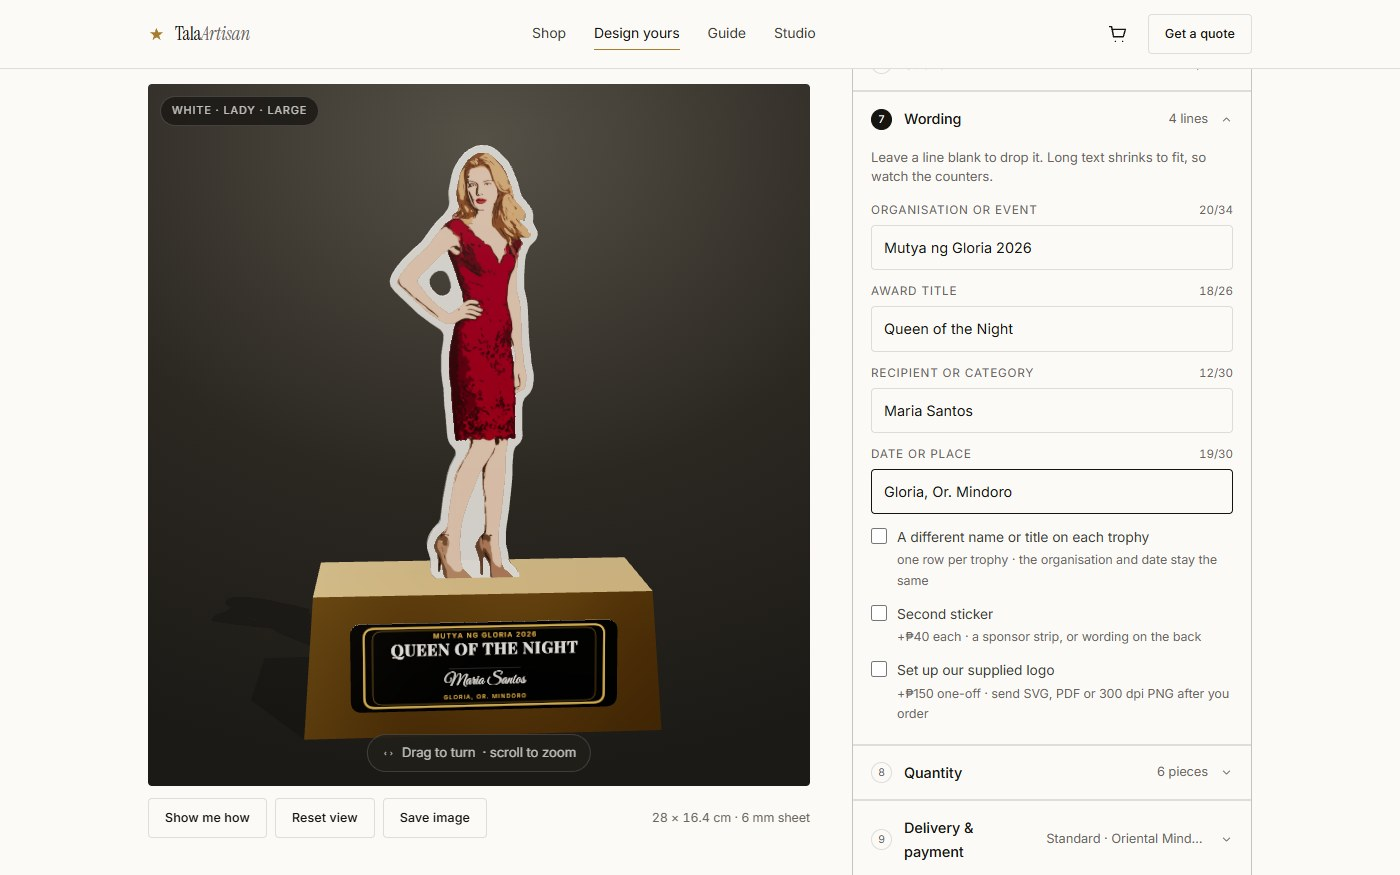
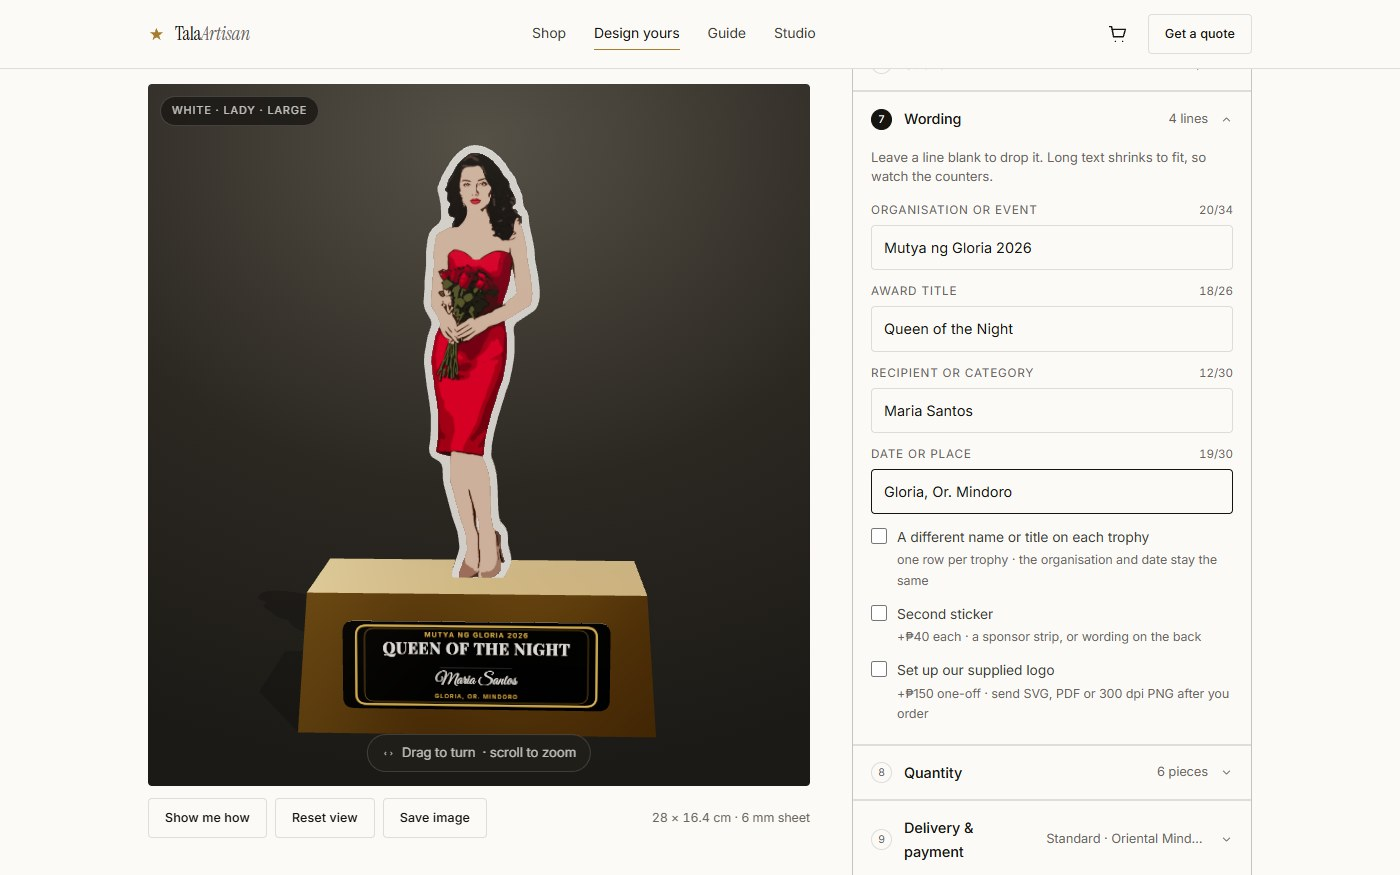
The Lady is a pageant contestant holding red roses
The owner asked for a pageant look with a bouquet: a dark-haired European
contestant in a red strapless dress, roses held at her waist, feet together,
facing the front. Her face was redrawn so both eyes match (the owner saw
them as crooked), and the roses keep their colour when a customer picks
another dress colour. The Guide's wording picture shows her.

Changed region(s): [[0.2457, 0.1543, 0.3993, 0.6789], [0.215, 0.648, 0.4914, 0.864], [0.3993, 0.6171, 0.4607, 0.6789]]

diff --git a/assets/js/trophy.js b/assets/js/trophy.js
@@ -794,26 +794,22 @@ const GENT_TRACE = `M102.3 299.9 L83.1 299.9 L81.6 298.2 L77.1 295.4 L74.0 292.9
   L87.1 185.4 L87.1 198.1 L90.8 222.4 L92.0 243.7 L93.0 253.4 L93.1 259.5 L92.8 264.6 L92.4 267.4
   L91.1 273.4 L91.1 275.7 L91.4 277.1 L92.8 279.4 L98.1 285.9 L101.7 291.3 L102.4 294.5 Z`;
 
-const LADY_TRACE = `M88.0 299.9 L35.4 299.9 L35.2 299.8 L34.0 297.1 L32.7 295.1 L28.2 290.8 L27.5 289.6 L26.9 286.7
-  L26.9 279.5 L24.7 272.2 L24.6 269.8 L24.9 268.1 L25.7 265.4 L26.9 263.0 L28.9 260.2 L32.6 256.0
-  L33.9 253.2 L35.8 237.8 L38.7 222.4 L40.5 216.7 L44.2 209.1 L44.7 207.1 L44.6 204.8 L43.9 203.0
-  L40.8 199.4 L39.8 197.5 L39.1 195.1 L38.7 191.7 L37.7 178.7 L37.0 173.3 L36.5 161.9 L35.6 156.4
-  L35.0 150.0 L35.1 138.8 L36.7 128.4 L36.7 125.4 L35.8 123.0 L34.2 121.1 L27.0 116.3 L19.4 110.6
-  L4.2 96.0 L1.7 93.0 L1.1 91.7 L0.7 89.5 L1.1 87.1 L2.6 83.8 L4.4 80.9 L6.5 78.2
-  L9.1 75.2 L15.0 69.3 L21.8 63.2 L23.4 61.3 L28.5 54.3 L32.7 49.2 L36.7 45.6 L39.6 41.5
-  L40.5 39.8 L40.8 38.3 L41.0 36.7 L40.5 31.8 L40.6 28.6 L42.6 18.8 L43.9 14.8 L45.5 11.8
-  L47.7 8.4 L50.6 5.0 L54.2 2.3 L57.6 0.6 L61.2 -0.1 L65.8 0.1 L67.6 0.6 L69.6 1.5
-  L73.3 4.2 L79.4 10.5 L81.6 14.2 L83.0 17.3 L85.8 24.4 L87.3 30.0 L88.5 33.0 L93.9 39.6
-  L95.5 42.3 L96.1 45.1 L95.9 49.5 L96.2 50.8 L98.5 54.9 L99.2 56.9 L99.1 58.3 L98.4 60.6
-  L97.4 62.2 L94.3 65.1 L93.4 66.5 L91.3 71.5 L90.7 75.3 L90.1 85.7 L90.1 91.7 L90.3 94.3
-  L92.1 102.0 L92.7 106.5 L93.5 124.8 L94.1 133.1 L95.0 138.8 L95.3 143.7 L97.1 152.4 L97.1 155.5
-  L96.4 160.3 L95.6 162.7 L94.5 164.6 L91.4 167.6 L90.7 168.6 L89.9 170.6 L89.6 171.9 L89.3 174.6
-  L89.3 190.4 L89.6 193.7 L89.2 196.4 L88.0 198.7 L85.2 201.3 L84.5 202.3 L83.6 204.7 L83.3 206.0
-  L82.7 213.8 L82.7 220.9 L82.3 226.8 L80.4 246.0 L78.7 257.2 L78.2 262.3 L78.3 269.8 L79.8 276.1
-  L80.5 281.6 L82.0 284.6 L86.1 288.8 L87.5 291.1 L88.1 294.3 Z
-  M36.2 99.2 L38.7 98.4 L40.0 97.4 L40.9 96.2 L41.8 93.6 L41.7 90.8 L40.2 86.0 L38.7 83.6
-  L37.4 82.5 L35.6 81.8 L32.7 81.8 L30.2 82.9 L27.7 85.4 L26.4 87.9 L26.4 90.9 L26.9 92.4
-  L28.1 94.5 L30.9 97.5 L32.2 98.4 L34.0 99.1 Z`;
+const LADY_TRACE = `M59.3 299.9 L42.2 299.9 L40.8 299.1 L39.2 298.6 L35.2 298.4 L33.8 298.0 L31.6 296.6 L30.3 294.4
+  L29.9 292.6 L30.2 288.5 L34.0 277.5 L35.1 273.0 L35.1 270.4 L34.3 263.5 L33.6 260.1 L30.2 250.1
+  L24.6 228.4 L23.9 223.9 L23.8 217.3 L23.2 214.5 L22.4 212.8 L21.2 211.5 L16.9 208.9 L15.9 207.9
+  L15.1 206.5 L14.7 205.2 L14.5 202.8 L15.4 196.5 L15.8 189.8 L15.8 179.5 L14.9 171.2 L13.2 160.2
+  L11.4 144.4 L11.6 139.2 L13.8 126.7 L16.5 118.7 L16.5 116.6 L16.0 114.8 L12.5 108.6 L11.7 105.9
+  L11.3 103.2 L12.0 94.4 L12.2 87.8 L13.2 78.7 L13.2 69.3 L14.3 61.1 L15.2 57.9 L17.1 54.8
+  L22.0 50.5 L22.9 49.0 L23.4 47.2 L23.3 39.2 L22.2 33.1 L21.1 29.0 L21.2 26.9 L23.7 20.7
+  L24.9 18.3 L29.5 10.7 L32.1 7.3 L34.8 4.6 L39.0 1.7 L42.0 0.4 L45.4 -0.1 L48.4 0.2
+  L52.5 1.3 L55.8 2.9 L59.0 5.1 L62.5 8.5 L65.0 11.3 L68.5 16.6 L71.2 19.9 L72.3 21.9
+  L73.5 25.7 L75.5 29.7 L76.6 32.6 L77.3 38.2 L77.8 39.9 L80.1 43.6 L80.9 45.9 L81.5 52.2
+  L84.2 63.9 L85.0 69.1 L85.3 74.4 L87.6 86.1 L88.6 94.5 L88.6 99.4 L88.2 102.2 L87.5 105.0
+  L86.4 107.2 L84.3 109.2 L73.6 116.2 L72.0 118.1 L71.3 119.9 L71.2 122.5 L71.8 127.4 L71.8 137.0
+  L71.4 141.6 L70.5 147.2 L68.5 156.8 L66.1 163.6 L60.8 181.0 L58.1 191.8 L56.6 200.0 L56.1 207.8
+  L56.5 210.1 L58.6 216.1 L59.8 221.6 L60.5 229.6 L61.0 245.9 L61.7 252.1 L62.8 255.3 L66.3 259.8
+  L67.4 262.3 L67.8 264.8 L67.8 270.4 L69.8 278.2 L70.2 280.5 L70.2 281.7 L69.7 283.8 L66.4 291.2
+  L64.8 293.2 L60.9 296.9 Z`;
 
 const SUIT_TRACE = `M95.8 299.9 L26.5 299.9 L22.3 295.3 L21.4 293.6 L21.0 292.1 L20.9 289.9 L21.4 286.8 L23.5 282.1
   L26.7 276.6 L27.2 274.8 L27.2 272.1 L26.4 267.0 L25.4 257.1 L24.9 248.1 L23.0 237.7 L22.1 231.5
@@ -1143,7 +1139,7 @@ const RUN_W_READY_ART = {"src": "img/figures/run-w-ready.ee09680b.webp", "box": 
 
 const GENT_ART = {"src": "img/figures/gent.418f1c14.webp", "box": [-3.7, -1.11, 103.85, 300.96], "clear": true, "wear": "img/figures/gent-wear.64c5a09d.png", "hi": "img/figures/gent-hi.85ed147f.webp"};
 
-const LADY_ART = {"src": "img/figures/lady.d457d768.webp", "box": [-0.38, -0.18, 100.23, 298.96], "clear": true, "wear": "img/figures/lady-wear.7b1363c9.png", "hi": "img/figures/lady-hi.b6266568.webp"};
+const LADY_ART = {"src": "img/figures/lady.65ef85f2.webp", "box": [10.05, -1.28, 90.06, 301.22], "clear": true, "wear": "img/figures/lady-wear.a9acaaac.png", "hi": "img/figures/lady-hi.c695947e.webp"};
 
 const SUIT_ART = {"src": "img/figures/suit.6453ec54.webp", "box": [2.11, -1.15, 98.0, 301.16], "clear": true, "wear": "img/figures/suit-wear.bc8d0319.png", "hi": "img/figures/suit-hi.aebaa446.webp"};
 

diff --git a/cart.html b/cart.html
@@ -12,8 +12,8 @@
 <link rel="preconnect" href="https://fonts.gstatic.com" crossorigin>
 <link rel="preload" as="style" href="https://fonts.googleapis.com/css2?family=Instrument+Serif:ital@0;1&family=Inter:wght@400;500;600&family=Oswald:wght@400;600&family=Playfair+Display:ital,wght@0,700;1,700&family=Great+Vibes&display=swap" onload="this.onload=null;this.rel='stylesheet'">
 <noscript><link rel="stylesheet" href="https://fonts.googleapis.com/css2?family=Instrument+Serif:ital@0;1&family=Inter:wght@400;500;600&family=Oswald:wght@400;600&family=Playfair+Display:ital,wght@0,700;1,700&family=Great+Vibes&display=swap"></noscript>
-<link rel="stylesheet" href="assets/css/styles.css?v=202611082218">
-<link rel="stylesheet" href="assets/css/cart.css?v=202611082218">
+<link rel="stylesheet" href="assets/css/styles.css?v=202611091333">
+<link rel="stylesheet" href="assets/css/cart.css?v=202611091333">
 
 <script type="importmap">
 { "imports": { "three": "https://cdn.jsdelivr.net/npm/three@0.160.0/build/three.module.js" } }
@@ -107,8 +107,8 @@
 
 <a class="msg" href="https://m.me/61595841638997" target="_blank" rel="noopener"><svg viewBox="0 0 24 24" aria-hidden="true"><path d="M12 4c4.4 0 8 3.2 8 7.3s-3.6 7.2-8 7.2c-1 0-2-.2-2.9-.5L5 19.6l1.2-3.5C4.8 14.8 4 13.1 4 11.3 4 7.2 7.6 4 12 4Z"/><path d="m8.3 13 2.6-2.7 2.1 1.6 2.6-2.8"/></svg><span>Message us<span class="msg__more"> on Facebook</span></span></a>
 
-<script src="assets/js/config.js?v=202611082218"></script>
-<script src="assets/js/main.js?v=202611082218" defer></script>
-<script type="module" src="assets/js/cart.js?v=202611082218"></script>
+<script src="assets/js/config.js?v=202611091333"></script>
+<script src="assets/js/main.js?v=202611091333" defer></script>
+<script type="module" src="assets/js/cart.js?v=202611091333"></script>
 </body>
 </html>

diff --git a/index.html b/index.html
@@ -17,7 +17,7 @@
 <link rel="preconnect" href="https://fonts.gstatic.com" crossorigin>
 <link rel="preload" as="style" href="https://fonts.googleapis.com/css2?family=Instrument+Serif:ital@0;1&family=Inter:wght@400;500;600&family=Oswald:wght@400;600&family=Playfair+Display:ital,wght@0,700;1,700&family=Great+Vibes&display=swap" onload="this.onload=null;this.rel='stylesheet'">
 <noscript><link rel="stylesheet" href="https://fonts.googleapis.com/css2?family=Instrument+Serif:ital@0;1&family=Inter:wght@400;500;600&family=Oswald:wght@400;600&family=Playfair+Display:ital,wght@0,700;1,700&family=Great+Vibes&display=swap"></noscript>
-<link rel="stylesheet" href="assets/css/styles.css?v=202611082218">
+<link rel="stylesheet" href="assets/css/styles.css?v=202611091333">
 
 <!-- JS on: the flat drawings in the 3D boxes stay hidden until the real
      picture is in (owner, 5 Nov: "i dont want to show these when it refresh").
@@ -369,8 +369,8 @@
 
 <a class="msg" href="https://m.me/61595841638997" target="_blank" rel="noopener"><svg viewBox="0 0 24 24" aria-hidden="true"><path d="M12 4c4.4 0 8 3.2 8 7.3s-3.6 7.2-8 7.2c-1 0-2-.2-2.9-.5L5 19.6l1.2-3.5C4.8 14.8 4 13.1 4 11.3 4 7.2 7.6 4 12 4Z"/><path d="m8.3 13 2.6-2.7 2.1 1.6 2.6-2.8"/></svg><span>Message us<span class="msg__more"> on Facebook</span></span></a>
 
-<script src="assets/js/config.js?v=202611082218"></script>
-<script src="assets/js/main.js?v=202611082218" defer></script>
-<script type="module" src="assets/js/home.js?v=202611082218"></script>
+<script src="assets/js/config.js?v=202611091333"></script>
+<script src="assets/js/main.js?v=202611091333" defer></script>
+<script type="module" src="assets/js/home.js?v=202611091333"></script>
 </body>
 </html>

diff --git a/design.html b/design.html
@@ -12,8 +12,8 @@
 <link rel="preconnect" href="https://fonts.gstatic.com" crossorigin>
 <link rel="preload" as="style" href="https://fonts.googleapis.com/css2?family=Instrument+Serif:ital@0;1&family=Inter:wght@400;500;600&family=Oswald:wght@400;600&family=Playfair+Display:ital,wght@0,700;1,700&family=Great+Vibes&display=swap" onload="this.onload=null;this.rel='stylesheet'">
 <noscript><link rel="stylesheet" href="https://fonts.googleapis.com/css2?family=Instrument+Serif:ital@0;1&family=Inter:wght@400;500;600&family=Oswald:wght@400;600&family=Playfair+Display:ital,wght@0,700;1,700&family=Great+Vibes&display=swap"></noscript>
-<link rel="stylesheet" href="assets/css/styles.css?v=202611082218">
-<link rel="stylesheet" href="assets/css/designer.css?v=202611082218">
+<link rel="stylesheet" href="assets/css/styles.css?v=202611091333">
+<link rel="stylesheet" href="assets/css/designer.css?v=202611091333">
 
 <script type="importmap">
 { "imports": { "three": "https://cdn.jsdelivr.net/npm/three@0.160.0/build/three.module.js" } }
@@ -647,7 +647,7 @@
 
 <a class="msg" href="https://m.me/61595841638997" target="_blank" rel="noopener"><svg viewBox="0 0 24 24" aria-hidden="true"><path d="M12 4c4.4 0 8 3.2 8 7.3s-3.6 7.2-8 7.2c-1 0-2-.2-2.9-.5L5 19.6l1.2-3.5C4.8 14.8 4 13.1 4 11.3 4 7.2 7.6 4 12 4Z"/><path d="m8.3 13 2.6-2.7 2.1 1.6 2.6-2.8"/></svg><span>Message us<span class="msg__more"> on Facebook</span></span></a>
 
-<script src="assets/js/main.js?v=202611082218" defer></script>
-<script type="module" src="assets/js/designer.js?v=202611082218"></script>
+<script src="assets/js/main.js?v=202611091333" defer></script>
+<script type="module" src="assets/js/designer.js?v=202611091333"></script>
 </body>
 </html>

diff --git a/assets/js/designer.js b/assets/js/designer.js
@@ -4,8 +4,8 @@
    dropped photo only repaint the sticker, so the preview keeps up.
    ══════════════════════════════════════════════════════════════ */
 import * as THREE from 'three';
-import { createViewer, webglAvailable } from './viewer.js?v=202611082218';
-import { hasBadWord } from './wordguard.js?v=202611082218';
+import { createViewer, webglAvailable } from './viewer.js?v=202611091333';
+import { hasBadWord } from './wordguard.js?v=202611091333';
 import {
   buildTrophy, disposeGroup, setSticker,
   SHAPES, MATERIALS, SIZES, DECALS, SCHEMES, LAMINATES, FONTS,
@@ -13,7 +13,7 @@ import {
   OCCASIONS, SPEEDS, ZONES, PAYMENTS, QTY_TIERS,
   quote, peso, fmtDate, setCustomOutline, customOutline, outlinePath, goldPath, tileArt, setVariant, variantsOf, groupsOf, groupOf, isStyled,
   standingHeight, printNote, OUTFITS, hasOutfit, outfitOk,
-} from './trophy.js?v=202611082218';
+} from './trophy.js?v=202611091333';
 
 const $  = (s, c = document) => c.querySelector(s);
 const $$ = (s, c = document) => [...c.querySelectorAll(s)];
@@ -323,7 +323,7 @@ const cut = {
 // "Your art"'s picture (with its art on the trophy) and the photo
 const restored = { picture: null, art: null, photo: null, photoImg: null };
 let cutMod = null;
-const cutLib = async () => cutMod || (cutMod = await import('./cutout.js?v=202611082218'));
+const cutLib = async () => cutMod || (cutMod = await import('./cutout.js?v=202611091333'));
 
 function cutNote(text, bad = false) {
   const el = $('#cutMsg');

diff --git a/assets/js/admin.js b/assets/js/admin.js
@@ -5,16 +5,16 @@
    this browser. Requests come from the quote form; shop trophies are
    what the home page's shop grid shows.
    ══════════════════════════════════════════════════════════════ */
-import { createViewer, webglAvailable } from './viewer.js?v=202611082218';
+import { createViewer, webglAvailable } from './viewer.js?v=202611091333';
 import {
   buildTrophy, disposeGroup, price, peso,
   SHAPES, MATERIALS, SIZES, BASES, BASE_FINISHES, SCHEMES, DECALS, LAMINATES,
   SPEEDS, ZONES, PAYMENTS, variantsOf, standingHeight, printNote, artReady, shopArtOk, SHOP_GROUPS, shopGroup,
   figureArt, recolour, loadArtImage, outfitOk, outfitLabel,
-} from './trophy.js?v=202611082218';
-import { stickerArt, eachWording, pieceArt, pngAtDpi, STICKER_DPI } from './sticker.js?v=202611082218';
-import { simplify } from './cutout.js?v=202611082218';
-import { mountCutEditor } from './cut-editor.js?v=202611082218';
+} from './trophy.js?v=202611091333';
+import { stickerArt, eachWording, pieceArt, pngAtDpi, STICKER_DPI } from './sticker.js?v=202611091333';
+import { simplify } from './cutout.js?v=202611091333';
+import { mountCutEditor } from './cut-editor.js?v=202611091333';
 
 const C = window.TALA_CONFIG || {};
 const URL_ = String(C.supabaseUrl || '').replace(/\/+$/, '');

diff --git a/admin.html b/admin.html
@@ -10,14 +10,14 @@
 <link rel="preconnect" href="https://fonts.googleapis.com">
 <link rel="preconnect" href="https://fonts.gstatic.com" crossorigin>
 <link rel="stylesheet" href="https://fonts.googleapis.com/css2?family=Instrument+Serif:ital@0;1&family=Inter:wght@400;500;600&family=Oswald:wght@400;600&family=Playfair+Display:ital,wght@0,700;1,700&family=Great+Vibes&display=swap">
-<link rel="stylesheet" href="assets/css/styles.css?v=202611082218">
-<link rel="stylesheet" href="assets/css/admin.css?v=202611082218">
+<link rel="stylesheet" href="assets/css/styles.css?v=202611091333">
+<link rel="stylesheet" href="assets/css/admin.css?v=202611091333">
 <script type="importmap">
 { "imports": { "three": "https://cdn.jsdelivr.net/npm/three@0.160.0/build/three.module.js" } }
 </script>
-<script src="assets/js/config.js?v=202611082218"></script>
+<script src="assets/js/config.js?v=202611091333"></script>
 <script src="https://cdn.jsdelivr.net/npm/@supabase/supabase-js@2.45.4/dist/umd/supabase.min.js" defer></script>
-<script type="module" src="assets/js/admin.js?v=202611082218"></script>
+<script type="module" src="assets/js/admin.js?v=202611091333"></script>
 </head>
 <body class="adm">
 <div id="app" class="adm-app">

diff --git a/assets/js/home.js b/assets/js/home.js
@@ -4,8 +4,8 @@
    a single shared context and baked to images.
    ══════════════════════════════════════════════════════════════ */
 import * as THREE from 'three';
-import { createViewer, webglAvailable } from './viewer.js?v=202611082218';
-import { buildTrophy, disposeGroup, price, peso, artReady, shopDesignOk, shopGroup, SHAPES, DESIGNS, MATERIALS, BASES, SIZES } from './trophy.js?v=202611082218';
+import { createViewer, webglAvailable } from './viewer.js?v=202611091333';
+import { buildTrophy, disposeGroup, price, peso, artReady, shopDesignOk, shopGroup, SHAPES, DESIGNS, MATERIALS, BASES, SIZES } from './trophy.js?v=202611091333';
 
 const $  = (s, c = document) => c.querySelector(s);
 const $$ = (s, c = document) => [...c.querySelectorAll(s)];

diff --git a/assets/js/sticker.js b/assets/js/sticker.js
@@ -19,8 +19,8 @@
    design sticker where the 3D trophy wears it. So one design sticker serves
    every trophy of that design; only the wording changes from order to order.
    ══════════════════════════════════════════════════════════════ */
-import { buildTrophy, disposeGroup, cutOutline, DESIGNS, MATERIALS, SCHEMES, DECALS, FONTS, stickerCanvas } from './trophy.js?v=202611082218';
-import { CUTS } from './sticker-cuts.js?v=202611082218';
+import { buildTrophy, disposeGroup, cutOutline, DESIGNS, MATERIALS, SCHEMES, DECALS, FONTS, stickerCanvas } from './trophy.js?v=202611091333';
+import { CUTS } from './sticker-cuts.js?v=202611091333';
 
 export const STICKER_DPI = 300;
 const PXCM = STICKER_DPI / 2.54;          // pixels per cm

diff --git a/assets/js/cart.js b/assets/js/cart.js
@@ -14,9 +14,9 @@
 import {
   quote, peso, fmtDate, SHAPES, SIZES, MATERIALS, BASES, BASE_FINISHES, ZONES, SPEEDS, PAYMENTS, QTY_TIERS, DESIGNS,
   buildTrophy, disposeGroup, artReady, shopDesignOk, shopGroup, OUTFITS, hasOutfit, outfitOk, outfitLabel,
-} from './trophy.js?v=202611082218';
-import { createViewer, webglAvailable } from './viewer.js?v=202611082218';
-import { hasBadWord } from './wordguard.js?v=202611082218';
+} from './trophy.js?v=202611091333';
+import { createViewer, webglAvailable } from './viewer.js?v=202611091333';
+import { hasBadWord } from './wordguard.js?v=202611091333';
 
 const C = window.TALA_CONFIG || {};
 const BASE = String(C.supabaseUrl || '').replace(/\/+$/, '');

diff --git a/assets/js/cut-editor.js b/assets/js/cut-editor.js
@@ -10,7 +10,7 @@
    base. Here the mask is trimmed at the base line, painted by hand, and cut
    again (finishCut) after every change; the cut goes back through onCut.
    ══════════════════════════════════════════════════════════════ */
-import { readImage, autoMask, maskPlain, finishCut, findBase, fillHoles } from './cutout.js?v=202611082218';
+import { readImage, autoMask, maskPlain, finishCut, findBase, fillHoles } from './cutout.js?v=202611091333';
 
 const TYPES = /^image\/(png|jpeg|webp)$/;
 const MAX_MB = 10;

diff --git a/tour.html b/tour.html
@@ -14,7 +14,7 @@
 <link rel="preconnect" href="https://fonts.googleapis.com">
 <link rel="preconnect" href="https://fonts.gstatic.com" crossorigin>
 <link rel="stylesheet" href="https://fonts.googleapis.com/css2?family=Instrument+Serif:ital@0;1&family=Inter:wght@400;500;600&display=swap">
-<link rel="stylesheet" href="assets/css/styles.css?v=202611082218">
+<link rel="stylesheet" href="assets/css/styles.css?v=202611091333">
 <style>
   /* The tour: one feature per row, a real screenshot of the live site beside a
      short explanation. Uses the site's own type, colours and buttons. */
